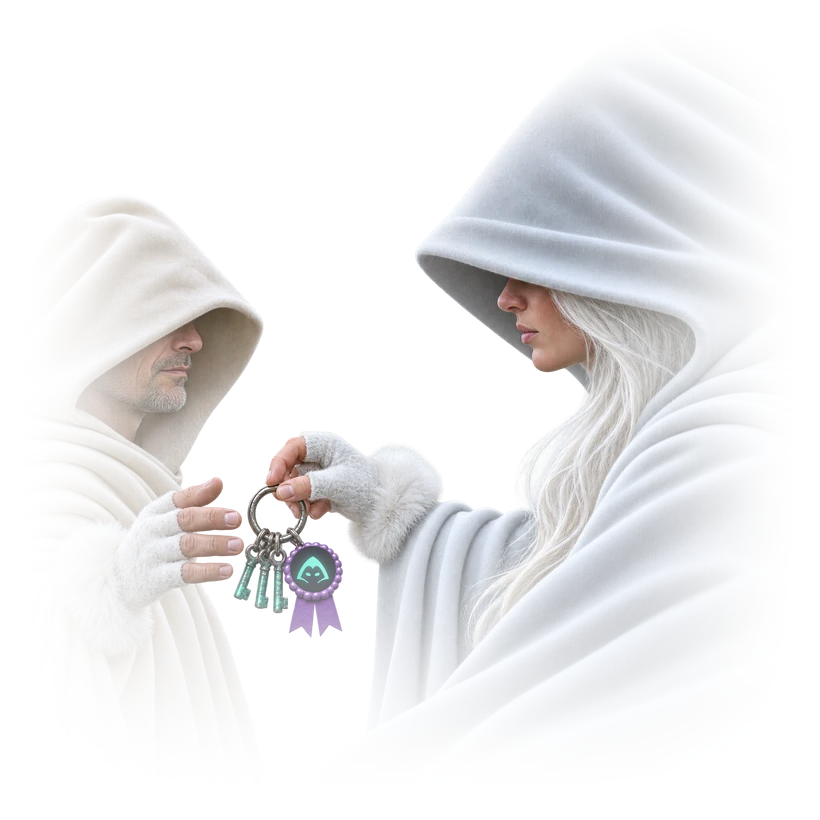
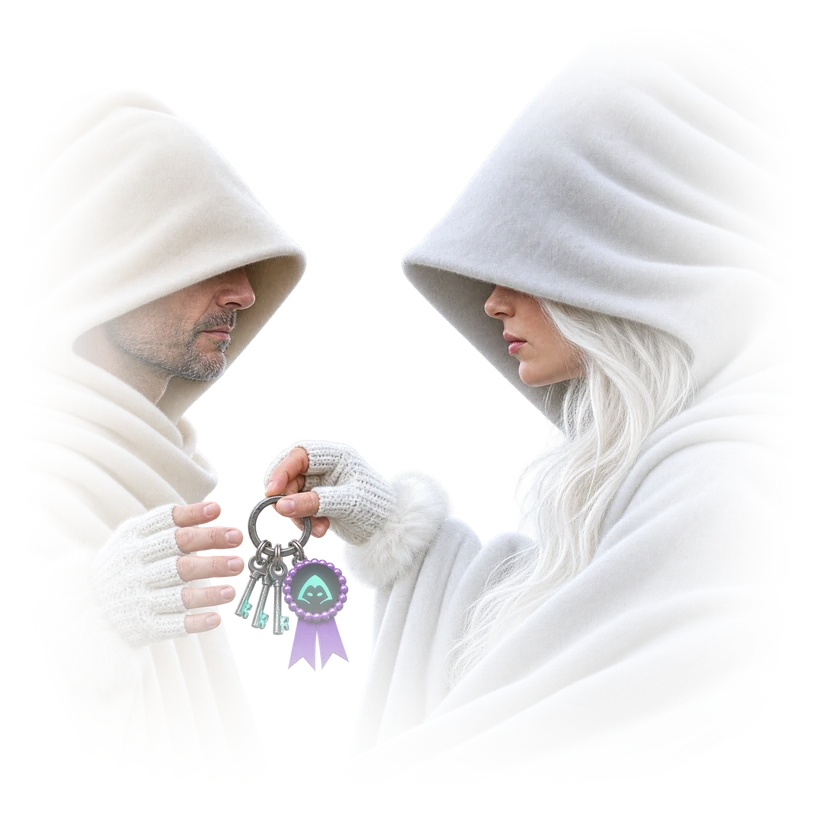
The authorized-reseller hero's reseller shows his face in the dark theme too, stands as tall as the guardian, and has five fingers in the light one (owner, 2026-11-27: "The dark version of the merchant actually has very dark face", "I want something like the bright mode. But for dark mode", "make th

Changed region(s): [[0.0915, 0.1524, 0.8841, 0.8232], [0.1524, 0.122, 0.1829, 0.1524]]

diff --git a/_includes/header.html b/_includes/header.html
@@ -409,7 +409,7 @@
                     <div
                       class="menu-with-offcanvas d-flex justify-content-between align-items-center flex-auto"
                     >
-                      <nav class="vh-navbar d-flex" role="navigation">
+                      <nav class="vh-navbar d-flex">
                         <ul class="vh-nav d-none d-lg-flex">
                           <li class="vh-nav-item{% if page.nav_active == 'home' %} active{% endif %}">
                             <a href="{{ vh_base }}/">{{ tc.nav_home }}</a>
@@ -701,7 +701,6 @@
                                               rel="noopener noreferrer"
                                               href="https://github.com/vpnhood/VpnHood/discussions"
                                               target="_blank"
-                                              rel="nofollow"
                                               >{{ tc.nav_github_discussion }}<span class="visually-hidden"> {{ tc.new_tab }}</span></a
                                             >
                                           </li>
@@ -710,7 +709,6 @@
                                               rel="noopener noreferrer"
                                               href="https://github.com/vpnhood/VpnHood/issues"
                                               target="_blank"
-                                              rel="nofollow"
                                               >{{ tc.nav_github_issues }}<span class="visually-hidden"> {{ tc.new_tab }}</span></a
                                             >
                                           </li>
@@ -750,7 +748,6 @@
                                               rel="noopener noreferrer"
                                               href="https://github.com/vpnhood/VpnHood/blob/main/CHANGELOG.md"
                                               target="_blank"
-                                              rel="nofollow"
                                               >{{ tc.nav_changelog }}<span class="visually-hidden"> {{ tc.new_tab }}</span></a
                                             >
                                           </li>

diff --git a/_includes/footer.html b/_includes/footer.html
@@ -44,8 +44,9 @@
 		</div>
 
 		<!-- Mobile menu — Bootstrap off-canvas (replaces the former Helix off-canvas;
-		     opened by the header burger via data-bs-toggle, backdrop provided by Bootstrap). -->
-		<div class="offcanvas offcanvas-start vh-offcanvas" tabindex="-1" id="mobileMenu" aria-label="{{ tc.oc_site_menu }}">
+		     opened by the header burger via data-bs-toggle, backdrop provided by Bootstrap). Its role is in
+		     the markup, as an aria-label is not allowed on a plain div; Bootstrap sets it again on opening. -->
+		<div class="offcanvas offcanvas-start vh-offcanvas" tabindex="-1" id="mobileMenu" role="dialog" aria-label="{{ tc.oc_site_menu }}">
 			<div class="offcanvas-header justify-content-end">
 				<button type="button" class="btn-close btn-close-white" data-bs-dismiss="offcanvas" aria-label="{{ tc.oc_close }}"></button>
 			</div>

diff --git a/tools/make-reseller-guardian.py b/tools/make-reseller-guardian.py
@@ -46,7 +46,7 @@ OUT = ROOT / "assets" / "images" / "reseller"
 
 # How far each fade reaches in from its side, as a fraction of the picture.
 DARK_FADES = {"left": 0.07, "right": 0.07, "top": 0.0, "bottom": 0.15}
-# The faces sit at about 20% (his) and 65% (hers) across, 35-40% down; the keys at 45% across, 70% down.
+# The faces sit at about 23% (his) and 64% (hers) across, 37-41% down; the keys at 38% across, 70% down.
 LIGHT_FADES = {"left": 0.34, "right": 0.38, "top": 0.26, "bottom": 0.5}
 JOBS = {
     SRC / "authorized-guardian.png": ("authorized-guardian", DARK_FADES),
